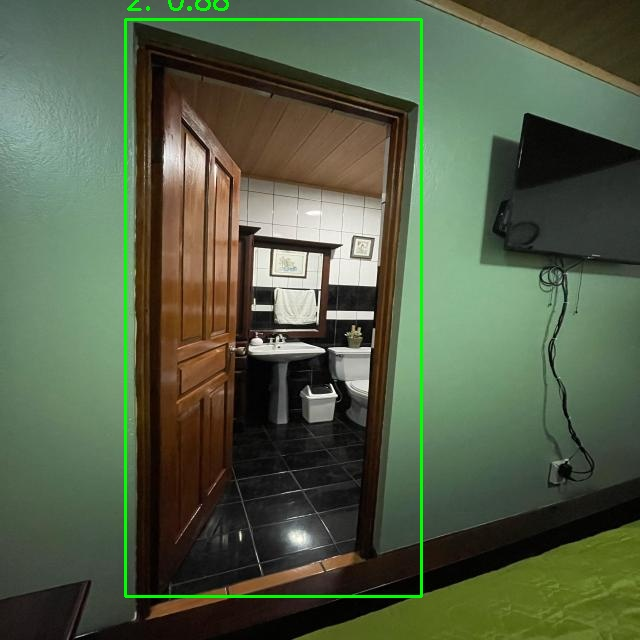
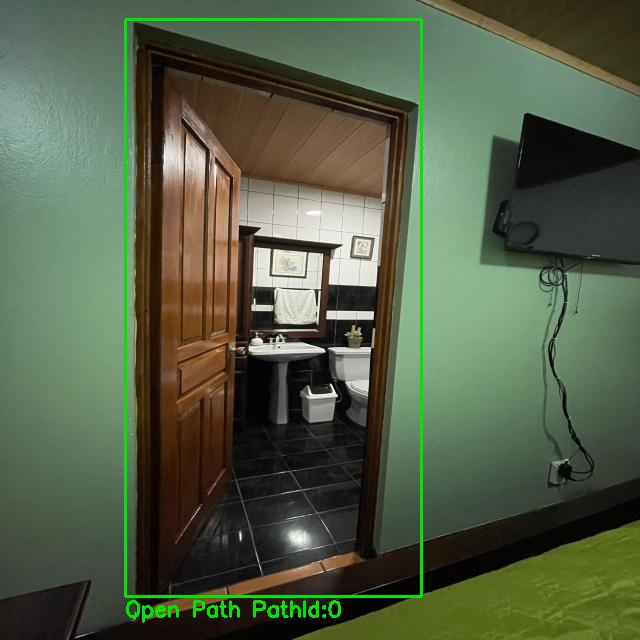
path finder minor fix & path analyser init

Changed region(s): [[0.1875, 0.9375, 0.5312, 0.9688], [0.25, 0.0, 0.375, 0.0312], [0.1875, 0.0, 0.2188, 0.0312]]

diff --git a/PathFinder/pathFinder.py b/PathFinder/pathFinder.py
@@ -63,6 +63,7 @@ class PathFinder:
       #Detects paths on images within a folder and saves modified images with bounding boxes.
       imageList = []
       imageId = 0
+      pathId = 0
       for filename in os.listdir(self.imagesFolder):
           pathList = []
           if filename.endswith(".jpg") or filename.endswith(".png"):  # Check for image extensions
@@ -75,11 +76,12 @@ class PathFinder:
                   cords = box.xyxy[0].tolist()
                   cords = [round(x) for x in cords]
                   conf = self.decimalToPercent(float(round(box.conf[0].item(), 2)))
-                  pathList.append(list((classId,self.calculateCenter(cords),conf)))
+                  pathList.append(list((pathId,classId,self.calculateCenter(cords),conf)))
                   x1, y1, x2, y2 = [int(x) for x in box.xyxy[0].tolist()]
-                  label = f"{result.names[box.cls[0].item()]}: {round(box.conf[0].item(), 2)}"
-                  cv2.rectangle(img, (x1, y1), (x2, y2), (0, 255, 0), 2)
-                  cv2.putText(img, label, (x1, y1 - 10), cv2.FONT_HERSHEY_SIMPLEX, 0.9, (0, 255, 0), 2)
+                  label = f"{classId} PathId:{pathId}"
+                  cv2.rectangle(img, (x1, y1), (x2, y2), (0, 230, 0), 2)
+                  cv2.putText(img, label, (x1, y2 + 20), cv2.FONT_HERSHEY_SIMPLEX, 0.7, (0, 230, 0), 2)
+                  pathId += 1
               print(" ---- PATH LIST -----")
               print(pathList)
               print(sorted(pathList,key=lambda x: x[1][0]))
@@ -87,28 +89,32 @@ class PathFinder:
               # Save modified image
               output = f"{self.outputFolder}/modified_{os.path.basename(full_path)}"
               cv2.imwrite(output, img)
-              imageId+=1
+              imageId += 1
 
               print(f"\n Image saved to: {output}")
       return imageList
 
 
-a = PathFinder(weightsPath, imagesFolder, outputFolder)
-list = a.detectPathsInFolder()
-print(" ------------- ")
-print("Final output below \n")
-print("Results list: \n")
-print(list)
-print("\nImages list: \n")
-print(list[0]) # lista de imagenes
-print("\nImage id: \n")
-print(list[0][0]) # id de imagen
-print("\nPaths on image: \n")
-print(list[0][1]) # paths en la  imagen
-print("\nPath detail: \n")
-print(list[0][1][0]) # camino
-print("\nPaths center: \n")
-print(list[0][1][0][1]) # coordenadas del camino
+# a = PathFinder(weightsPath, imagesFolder, outputFolder)
+# list = a.detectPathsInFolder()
+# print(" ------------- ")
+# print("Final output below \n")
+# print("Results list: \n")
+# print(list)
+# print("\nImages list: \n")
+# print(list[0]) # lista de imagenes
+# print("\nImage id: \n")
+# print(list[0][0]) # id de imagen
+# print("\nPaths on image: \n")
+# print(list[0][1]) # paths en la  imagen
+# print("\nPath detail: \n")
+# print(list[0][1][0]) # camino
+# print("\nPath id: \n")
+# print(list[0][1][0][0]) # coordenadas del camino
+# print("\nPath type: \n")
+# print(list[0][1][0][1]) # coordenadas del camino
+# print("\nPath center: \n")
+# print(list[0][1][0][2]) # coordenadas del camino
 
 
-print(" ------------- ")
+# print(" ------------- ")

diff --git a/PathAnalizer/pathAnalizer.py b/PathAnalizer/pathAnalizer.py
@@ -1,0 +1,26 @@
+exampleList = [[0, [['Open Path', [274, 308], '88.0%']]], [1, [['Open Path', [120, 329], '89.0%'], ['Closed Path', [368, 338], '89.0%']]]]
+
+class PathAnalizer:
+    def __init__(self):
+        self.unitsNo = 1
+        self.openPathList = []
+
+    def removeClosedPaths(self,pathList):
+        rooms = pathList
+        for room in rooms:
+            for i in range(len(room[1])):
+                if (room[1][i][0] == 'Closed Path'):
+                    room[1].pop(i)
+
+
+    
+    # def calculateUAVNumber(pathList):
+    #     uavId = 0
+    #     actualUAV = uavId
+    #     for room in pathList:
+
+a = PathAnalizer()
+print(exampleList)
+list = a.removeClosedPaths(exampleList)
+
+print(exampleList)
